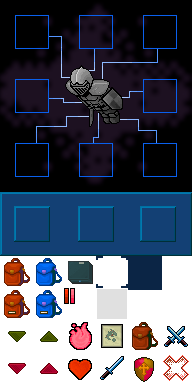
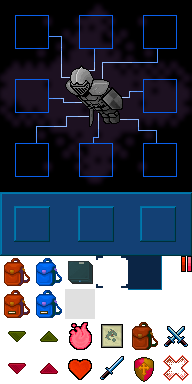
added a switch case for item definitions... switched to 64px items

Changed region(s): [[0.3125, 0.75, 0.6875, 0.8438], [0.9375, 0.6562, 1.0, 0.7188], [0.8125, 0.6562, 0.8438, 0.75]]

diff --git a/index.js b/index.js
@@ -301,13 +301,106 @@ window.addEventListener('load', (event) => {
     const mouseY = e.clientY - canvas.getBoundingClientRect().top;
     const selectedItem = findItemUnderMouse(mouseX, mouseY);
     
-    if (selectedItem && selectedItem.type === 'mainhand' && !selectedItem.isDragging) {
-      itemData.innerHTML = `
-        ${selectedItem.name}<br>
-        damage: ${selectedItem.offense}<br>
-        speed: ${selectedItem.speed}<br>
-        capweight: ${selectedItem.capacity}
-      `;
+    if (selectedItem && !selectedItem.isDragging) {
+      switch(selectedItem.type) {
+        case 'container':
+          itemData.innerHTML = `
+            ${selectedItem.name}<br>
+            contains: ${selectedItem.slots} items<br>
+            capweight: ${selectedItem.capacity}
+          `;
+          break;
+        case 'necklace':
+          itemData.innerHTML = `
+            ${selectedItem.name}<br>
+            offense skill: ${selectedItem.offense}<br>
+            defense skill: ${selectedItem.defense}<br>
+          `;
+          break;
+        case 'helmet':
+          itemData.innerHTML = `
+            ${selectedItem.name}<br>
+            defense: ${selectedItem.defense}<br>
+            capweight: ${selectedItem.capacity}
+          `;
+          break;
+        case 'chest':
+          itemData.innerHTML = `
+            ${selectedItem.name}<br>
+            defense: ${selectedItem.defense}<br>
+            capweight: ${selectedItem.capacity}
+          `;
+          break;
+        case 'legs':
+          itemData.innerHTML = `
+            ${selectedItem.name}<br>
+            defense: ${selectedItem.defense}<br>
+            capweight: ${selectedItem.capacity}
+          `;
+          break;
+        case 'feet':
+          itemData.innerHTML = `
+            ${selectedItem.name}<br>
+            defense: ${selectedItem.defense}<br>
+            speed: ${selectedItem.speed}<br>
+            capweight: ${selectedItem.capacity}
+          `;
+          break;
+        case 'mainhand':
+          itemData.innerHTML = `
+            ${selectedItem.name}<br>
+            damage: ${selectedItem.offense}<br>
+            speed: ${selectedItem.speed}<br>
+            capweight: ${selectedItem.capacity}
+          `;
+          break;
+        case 'offhand':
+          itemData.innerHTML = `
+            ${selectedItem.name}<br>
+            defense: ${selectedItem.defense}<br>
+            capweight: ${selectedItem.capacity}
+          `;
+          break;
+        case 'tool':
+          itemData.innerHTML = `
+            ${selectedItem.name}<br>
+            capweight: ${selectedItem.capacity}
+          `;
+          break;
+        case 'currency':
+          itemData.innerHTML = `
+            ${selectedItem.name}<br>
+            amount: ${selectedItem.amount}<br>
+            capweight: ${selectedItem.capacity}
+          `;
+          break;
+        case 'consumable':
+          itemData.innerHTML = `
+            ${selectedItem.name}<br>
+            purpose: ${selectedItem.purpose}<br>
+            capweight: ${selectedItem.capacity}
+          `;
+          break;
+        case 'rubbish':
+          itemData.innerHTML = `
+            ${selectedItem.name}<br>
+            capweight: ${selectedItem.capacity}
+          `;
+          break;
+        case 'decor':
+          itemData.innerHTML = `
+            ${selectedItem.name}<br>
+            capweight: ${selectedItem.capacity}
+          `;
+          break;
+        case 'literature':
+          itemData.innerHTML = `
+            ${selectedItem.name}<br>
+            capweight: ${selectedItem.capacity}
+          `;
+          break;
+        default: break;
+      };
 
       itemData.style.display = 'block';
       itemData.style.border = '1px solid #fff';
@@ -358,33 +451,27 @@ window.addEventListener('load', (event) => {
       'mainhand',
       'sword', 
       {
-        source: {
-          sx: 160,
-          sy: 32
-        },
-        destination: {
-          dx: 384,
-          dy: 384
-        }
+        source: {sx: 0, sy: 0 }, 
+        destination: { dx: 384, dy: 384 }
       }  
     );
     // item 2
     initItem(
       inWorldObjects.length + 1,
       'mainhand',
-      'tigerclaws', 
+      'sword', 
       {
-        source: { sx: 128, sy: 32 },
+        source: { sx: 0, sy: 0 },
         destination: { dx: 324, dy: 384 }
       }  
     );
     // item 3
     initItem(
       inWorldObjects.length + 1,
-      'mainhand',
-      'mace', 
+      'tool',
+      'fishingpole', 
       { 
-        source: { sx: 192, sy: 32 },
+        source: { sx: 64, sy: 0 },
         destination: { dx: 448, dy: 384 } 
       }
     );
@@ -421,7 +508,7 @@ window.addEventListener('load', (event) => {
     ctx.drawImage( ui, 0, 192, 192, 64, screen.width, 192, 192, 64 );
 
     // draw selected
-    ctx.drawImage( ui, 128, 256, 32, 32, active.dx - 1, active.dy - 1, 34, 34 );
+    ctx.drawImage( ui, 128, 256, 34, 34, active.dx - 1, active.dy - 1, 34, 34 );
 
     // draw buttons
     for (const btn in ui.toggleUIButtons) {
@@ -528,7 +615,6 @@ window.addEventListener('load', (event) => {
     };
   };
 
-  
   // Collision Detection
   const collisionDetect = (newX, newY) => {
     for (let i = 0 ; i < boundaries.length ; i++) {
@@ -611,21 +697,6 @@ window.addEventListener('load', (event) => {
 });
     
 // addEventListener('resize', drawMap);
-
-
-// water animation
-// stairs and holes
-
-// user interface
-// inventory functionality
-// equipping items
-// depot box function
-// mailbox function
-// trash function
-// fishing function
-// npcs/interaction/dialogue
-// attack functions
-// determine skills and lvl algorithms
 
 // ----------------------------
 

diff --git a/src/Classes.js b/src/Classes.js
@@ -37,14 +37,14 @@ export class Tile {
 export class Item {
   constructor(id, type, name, { source, destination }) {
     this.image = new Image();
-    this.image.src = './backend/assets/item_data/genus-item-resources.png';
+    this.image.src = './backend/assets/item_data/genus-items-64.png';
     this.id = id;
     this.type = type;
     this.name = name;
     this.source = source;
     this.destination = destination;
-    this.pixelSize = 32;
-    this.scale = 2;
+    this.pixelSize = 64;
+    this.scale = 1;
     this.isDragging = false;
   }
 

diff --git a/styles/styles.css b/styles/styles.css
@@ -90,6 +90,7 @@ p, h1, h2, h3, h4, h5, h6 {
 .game-container {
   display: flex;
   flex-direction: row;
+  box-shadow: 0 0 10px black;
 }
 /* player stats - lefthand side */
 .game-container .player-stats .box {
